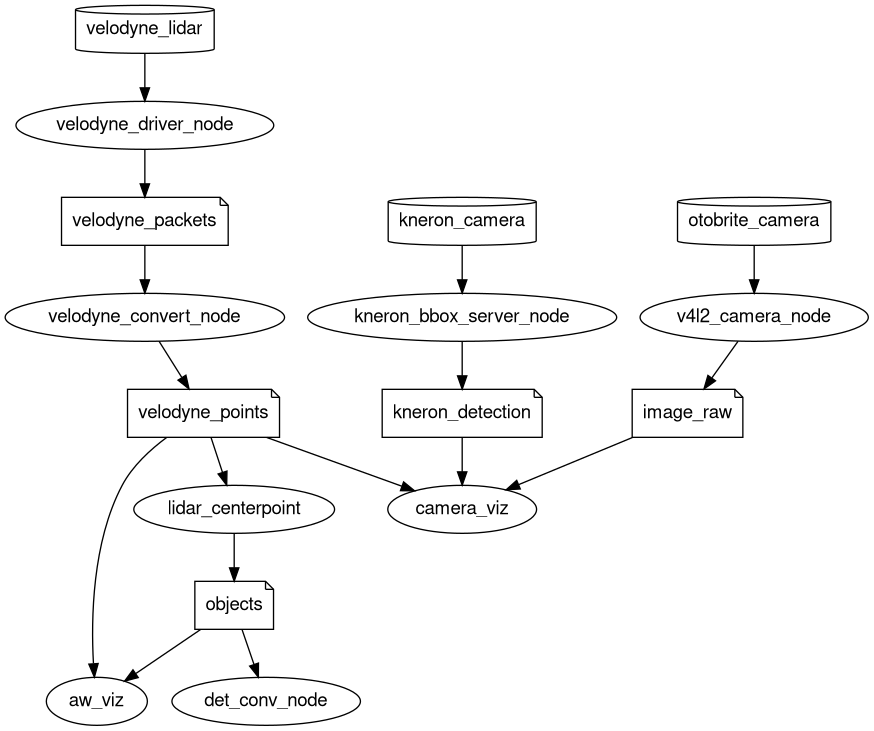
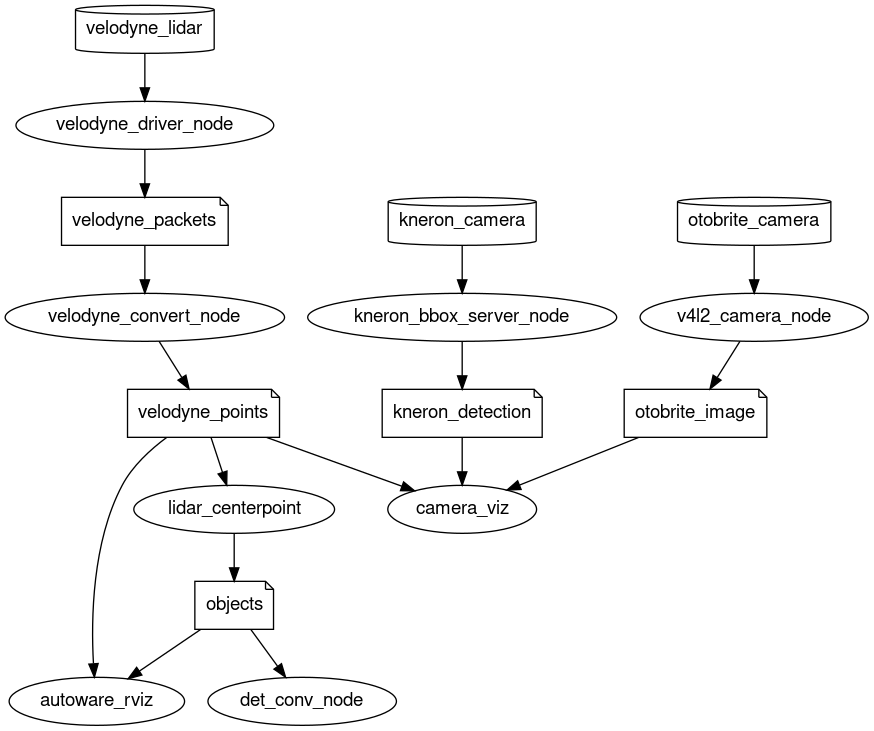
Update README. Change the command to capture Otobrite video and update architecture picture.

diff --git a/README.md b/README.md
@@ -83,11 +83,13 @@ Kneron board via Ethernet cable. Set the network static address to
 
 ### (C) Capture images from Otobrite camera
 
-Find the location of video device. For example, `/dev/video0`. Set the
-device device in the command line parameter.
+Set the video device path in the config file
+`crates/v4l2_node/config/example.json5`. For example, `/dev/video0`.
+
+Start the image capturing node.
 
 ```bash
-ros2 run v4l2_camera v4l2_camera_node video_device:=/dev/videoX
+cargo run --bin v4l2_node --release -- --config crates/v4l2_node/config/example.json5
 ```
 
 ### (D) Run the visualizer for Otobrite and Kneron cameras
@@ -110,19 +112,6 @@ ros2 launch lidar_centerpoint lidar_centerpoint.launch.xml \
     model_name:=aip_x2 \
     input/pointcloud:=/velodyne_points
 ```
-
-### (F) Run the visualizer for Autoware `lidar_centerpoint`
-
-Modify input topic names in the `crates/aw_viz/config/example.json5`
-configuration file. Then,
-
-```bash
-./target/release/aw_viz --config crates/aw_viz/config/example.json5
-```
-
-Before running the visualizer, you may run (A) first to enable live
- point cloud data feed and run (E) to start live `lidar_centerpoint`
- processing.
 
 ### (F) Run `det_conv_node`
 
